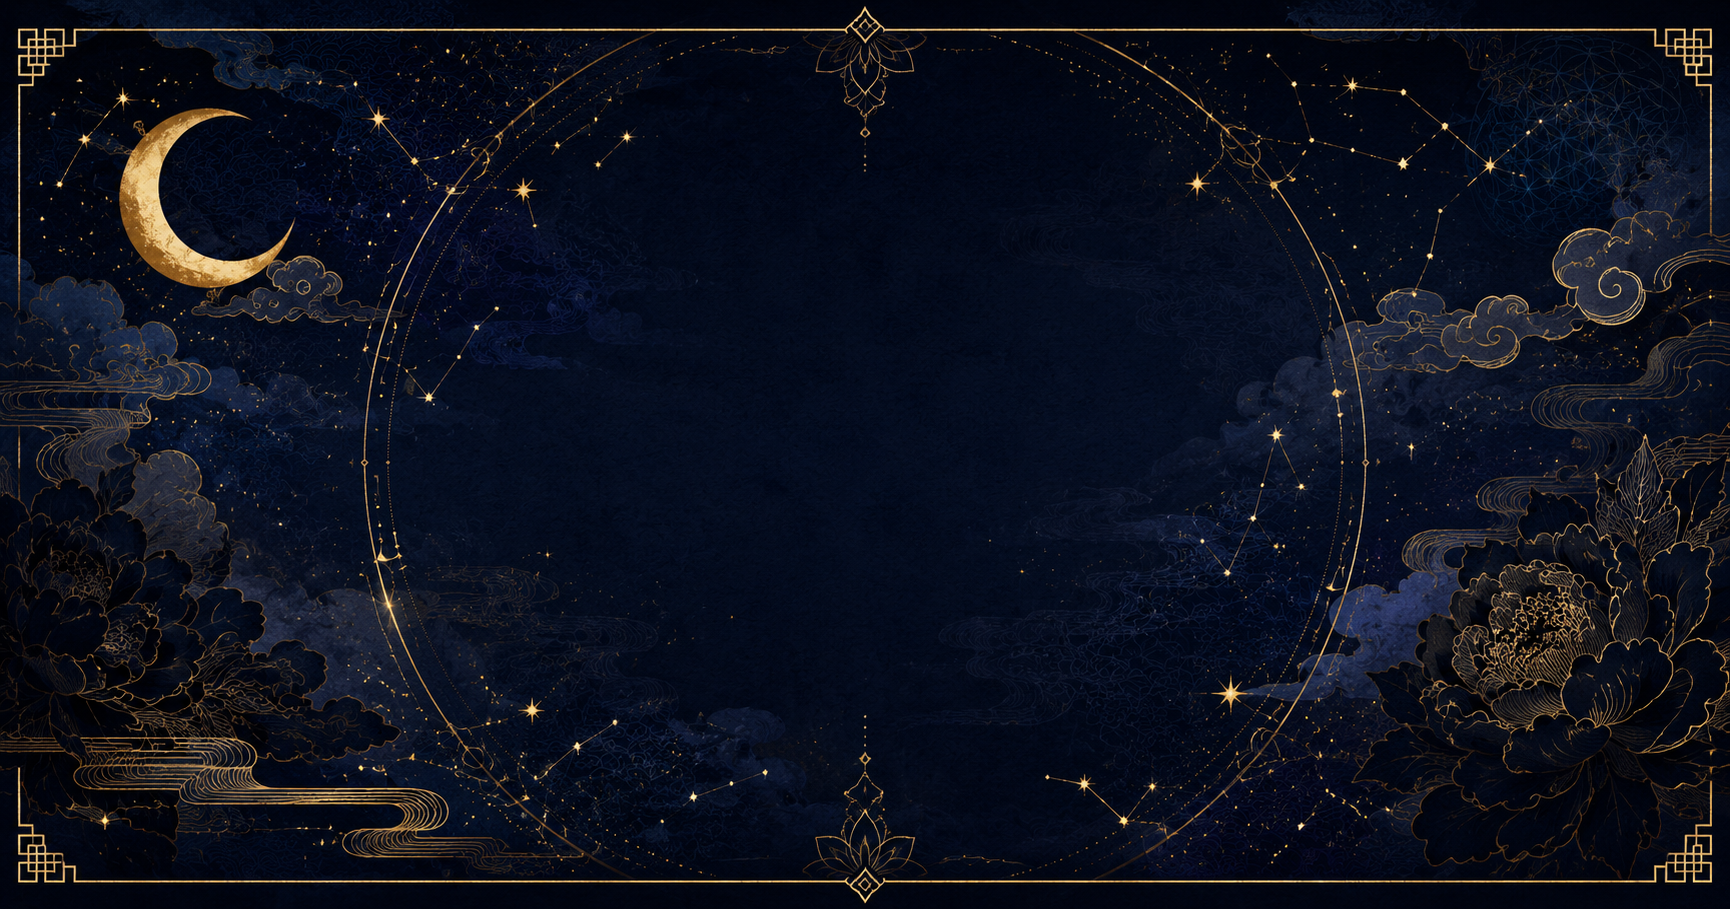
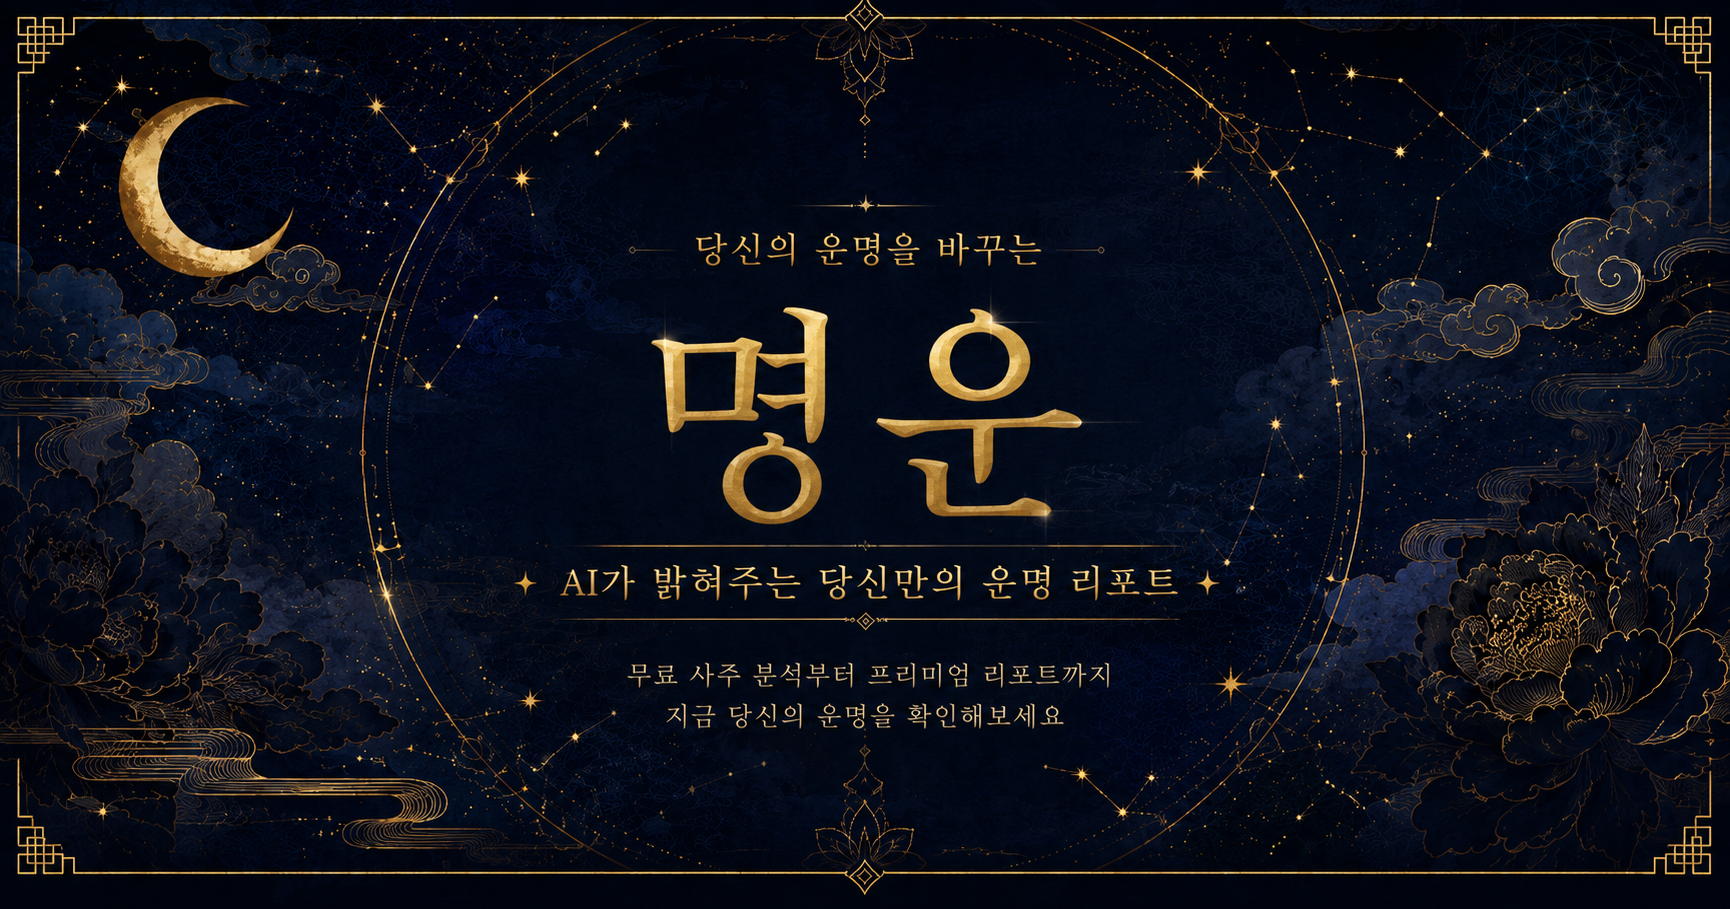
feat: 기적의 제단 AI 자동 소원 Cron 추가

diff --git a/app/api/altar-auto-wish/route.ts b/app/api/altar-auto-wish/route.ts
@@ -1,0 +1,144 @@
+// 📁 app/api/altar-auto-wish/route.ts
+
+import { NextResponse } from "next/server";
+import { createClient } from "@supabase/supabase-js";
+
+const supabase = createClient(
+  process.env.NEXT_PUBLIC_SUPABASE_URL!,
+  process.env.SUPABASE_SERVICE_ROLE_KEY! // ← 서비스 롤 키 (RLS 우회)
+);
+
+// ─── 소원 유형 풀 (AI 프롬프트용 힌트) ───────────────────────────────
+const WISH_THEMES = [
+  "건강과 치유",
+  "사랑과 인연",
+  "재물과 풍요",
+  "취업과 직장",
+  "합격과 성공",
+  "가족의 평안",
+  "소중한 관계 회복",
+  "꿈과 목표 달성",
+  "감사와 위로",
+  "새로운 시작",
+  "용기와 자신감",
+  "평화로운 일상",
+];
+
+// ─── 소원 스타일 풀 ──────────────────────────────────────────────────
+const WISH_STYLES = [
+  "간절하고 진심 어린 말투로",
+  "짧고 강렬하게",
+  "따뜻하고 부드러운 말투로",
+  "담담하지만 간절하게",
+  "희망차고 긍정적으로",
+  "혼잣말처럼 진솔하게",
+];
+
+// ─── 이름 배지 풀 ────────────────────────────────────────────────────
+const NAME_BADGES = [
+  "익명",
+  "소망하는 자",
+  "간절한 마음",
+  "오늘도 버티는 중",
+  "희망을 품은 자",
+  "나아가는 자",
+  "새벽의 기도자",
+];
+
+function randomPick<T>(arr: T[]): T {
+  return arr[Math.floor(Math.random() * arr.length)];
+}
+
+// ─── AI 소원 생성 ────────────────────────────────────────────────────
+async function generateWish(): Promise<string> {
+  const theme = randomPick(WISH_THEMES);
+  const style = randomPick(WISH_STYLES);
+
+  const prompt = `당신은 기적의 제단에 소원을 올리는 한국인 사용자입니다.
+주제: "${theme}"
+말투: ${style}
+
+조건:
+- 1~3문장으로 짧게 작성
+- 실제 사람이 쓴 것처럼 자연스럽게
+- 종교적 내용, 욕설, 혐오, 정치적 내용 절대 금지
+- 이모지 1~2개 자연스럽게 포함 가능
+- 따옴표나 설명 없이 소원 내용만 출력
+
+예시:
+올해는 꼭 좋은 사람 만나게 해주세요. 혼자인 시간이 너무 길었어요 🙏
+건강하게만 있어줘. 그것만으로도 충분해 💛
+이번 시험, 내가 할 수 있는 최선을 다했습니다. 제발 붙게 해주세요.`;
+
+  const response = await fetch("https://api.openai.com/v1/chat/completions", {
+    method: "POST",
+    headers: {
+      "Content-Type": "application/json",
+      Authorization: `Bearer ${process.env.OPENAI_API_KEY}`,
+    },
+    body: JSON.stringify({
+      model: "gpt-4o-mini",
+      max_tokens: 120,
+      temperature: 1.1, // 다양성 극대화
+      messages: [{ role: "user", content: prompt }],
+    }),
+  });
+
+  const data = await response.json();
+  const text = data.choices?.[0]?.message?.content?.trim() ?? "";
+
+  // 안전 필터: 빈 값이면 fallback
+  if (!text || text.length < 5) {
+    return "오늘도 좋은 일이 가득하길 바랍니다 🙏";
+  }
+  return text;
+}
+
+// ─── 메인 핸들러 ─────────────────────────────────────────────────────
+export async function POST(req: Request) {
+  // 보안: 내부 Cron 호출 전용 시크릿 검증
+  const secret = req.headers.get("x-cron-secret");
+  if (secret !== process.env.CRON_SECRET) {
+    return NextResponse.json({ error: "Unauthorized" }, { status: 401 });
+  }
+
+  const body = await req.json().catch(() => ({}));
+  const count: number = body.count ?? 1; // 한 번에 생성할 소원 수
+  const duration: string = body.duration ?? "1h"; // "1h" | "24h" | "10d"
+
+  const results: { success: boolean; content?: string; error?: string }[] = [];
+
+  for (let i = 0; i < count; i++) {
+    // 요청 사이 살짝 딜레이 (OpenAI rate limit 방지)
+    if (i > 0) await new Promise((r) => setTimeout(r, 300));
+
+    try {
+      const content = await generateWish();
+      const badge = randomPick(NAME_BADGES);
+      const displayName =
+        duration === "1h" ? "" : `[✨ ${badge} 님의 ${duration === "24h" ? "24시간" : "특별기원"}]`;
+
+      const { error } = await supabase.from("wishes").insert({
+        content,
+        duration,
+        display_mode: "anonymous",
+        display_name: displayName,
+        is_auto: true, // ← wishes 테이블에 이 컬럼 추가 필요 (선택사항)
+      });
+
+      if (error) {
+        results.push({ success: false, error: error.message });
+      } else {
+        results.push({ success: true, content });
+      }
+    } catch (e: any) {
+      results.push({ success: false, error: e.message });
+    }
+  }
+
+  const successCount = results.filter((r) => r.success).length;
+  return NextResponse.json({
+    message: `✅ ${successCount}/${count}개 소원 생성 완료`,
+    results,
+  });
+}

diff --git a/app/api/cron-trigger/route.ts b/app/api/cron-trigger/route.ts
@@ -1,0 +1,68 @@
+// 📁 app/api/altar-cron/route.ts
+// Vercel Cron이 이 엔드포인트를 주기적으로 호출합니다.
+// vercel.json 스케줄에 따라 3가지 크론이 각각 다른 파라미터로 호출됩니다.
+
+import { NextResponse } from "next/server";
+
+// ─── 크론 타입별 설정 ─────────────────────────────────────────────────
+// type 파라미터 → "free" | "paid_1d" | "paid_10d"
+const CONFIG = {
+  free: {
+    // 하루 10번 → 약 2.4시간마다 1개
+    // vercel.json: "0 */2 * * *"  (2시간마다)
+    count: 1,
+    duration: "1h",
+  },
+  paid_1d: {
+    // 하루 3번 → 08:00 / 13:00 / 20:00 KST
+    // vercel.json: "0 23,4,11 * * *" (UTC 기준: KST-9)
+    count: 1,
+    duration: "24h",
+  },
+  paid_10d: {
+    // 일주일에 1번 → 매주 월요일 09:00 KST
+    // vercel.json: "0 0 * * 1"
+    count: 1,
+    duration: "10d",
+  },
+};
+
+export async function GET(req: Request) {
+  // Vercel Cron 보안 헤더 검증
+  const authHeader = req.headers.get("authorization");
+  if (authHeader !== `Bearer ${process.env.CRON_SECRET}`) {
+    return NextResponse.json({ error: "Unauthorized" }, { status: 401 });
+  }
+
+  const { searchParams } = new URL(req.url);
+  const type = (searchParams.get("type") ?? "free") as keyof typeof CONFIG;
+
+  const cfg = CONFIG[type];
+  if (!cfg) {
+    return NextResponse.json({ error: "Invalid type" }, { status: 400 });
+  }
+
+  // ─── 랜덤 지연: 0~30분 사이 랜덤하게 딜레이 (더 자연스럽게) ──────
+  const delayMinutes = Math.floor(Math.random() * 30);
+  await new Promise((r) => setTimeout(r, delayMinutes * 60 * 1000));
+
+  // ─── 내부 API 호출 ───────────────────────────────────────────────
+  const baseUrl = process.env.NEXT_PUBLIC_SITE_URL ?? "https://saju.ymstudio.co.kr";
+
+  const response = await fetch(`${baseUrl}/api/altar-auto-wish`, {
+    method: "POST",
+    headers: {
+      "Content-Type": "application/json",
+      "x-cron-secret": process.env.CRON_SECRET!,
+    },
+    body: JSON.stringify({
+      count: cfg.count,
+      duration: cfg.duration,
+    }),
+  });
+
+  const data = await response.json();
+  console.log(`[altar-cron] type=${type}`, data);
+
+  return NextResponse.json(data);
+}